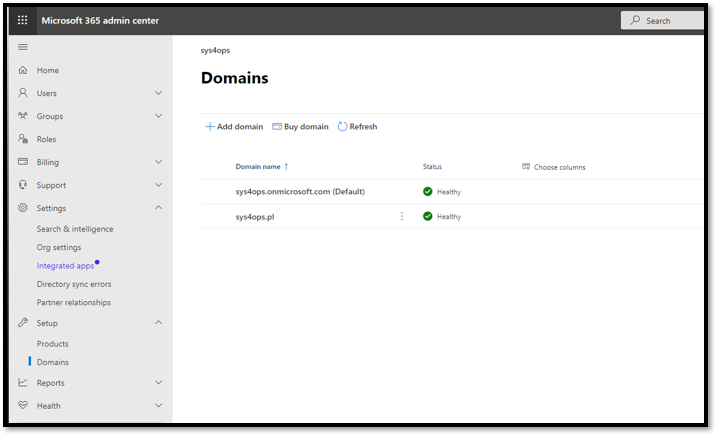
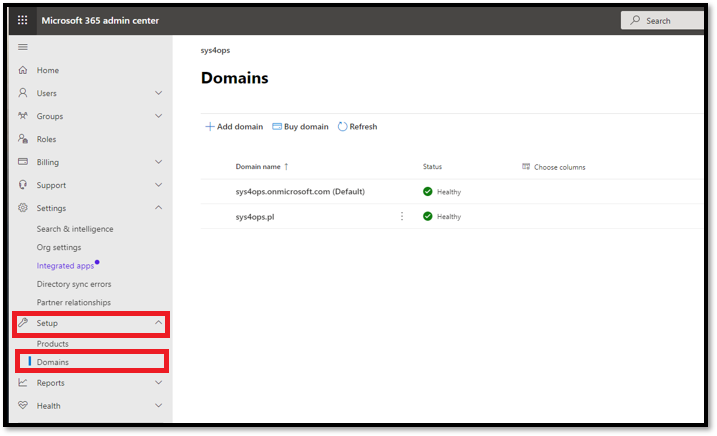
Intune post

Changed region(s): [[0.0, 0.7156, 0.2455, 0.8647]]

diff --git a/_posts/2021-04-03-Intune-for-beginners.md b/_posts/2021-04-03-Intune-for-beginners.md
@@ -79,10 +79,22 @@ Pricing and features of EMS: [Enterprise Mobility + Security](https://www.micros
 
 `Note: To perform this task you need to have access to DNS Server or host provider.`
 
-Step 1: Create DNS entries
+**Step 1:** Create DNS entries
 
 | Type | Name  | Value | TTL | Description |
 | ------------- | ------------- | ---- | ---- | ------------- |
 | CANME | EnterpriseEnrollment.CustomDomainName.com  | EnterpriseEnrollment.manage.microsoft.com | 3600 | To simplify enrollment, create a domain name server (DNS) alias (CNAME record type) that redirects enrollment requests to Intune servers. Otherwise, users trying to connect to Intune must enter the Intune server name during enrollment. |
 | CANME | EnterpriseRegistration.CustomDomainName.com | EnterpriseRegistration.windows.net | 3600 | Azure Active Directory has a different CNAME that it uses for device registration for iOS/iPadOS, Android, and Windows devices. Intune conditional access requires devices to be registered, also called "workplace joined". |
 
+Example:   
+![](/assets/images/Intune/Intune-dns-2.png)
+
+**Step 3:** Log on to Office 365 admin cneter byr URL: [https://admin.microsoft.com](https://admin.microsoft.com)  
+**Step 3:** On left navigation menu go to:  **Setup** --> **Domains**  
+Edit existing **Custom Domain Name** and follow wizard
+
+![](/assets/images/Intune/Intune-dns-3.png)
+
+Add NEW **Custom Domain Name** and follow wizard
+
+![](/assets/images/Intune/Intune-dns-4.png)
